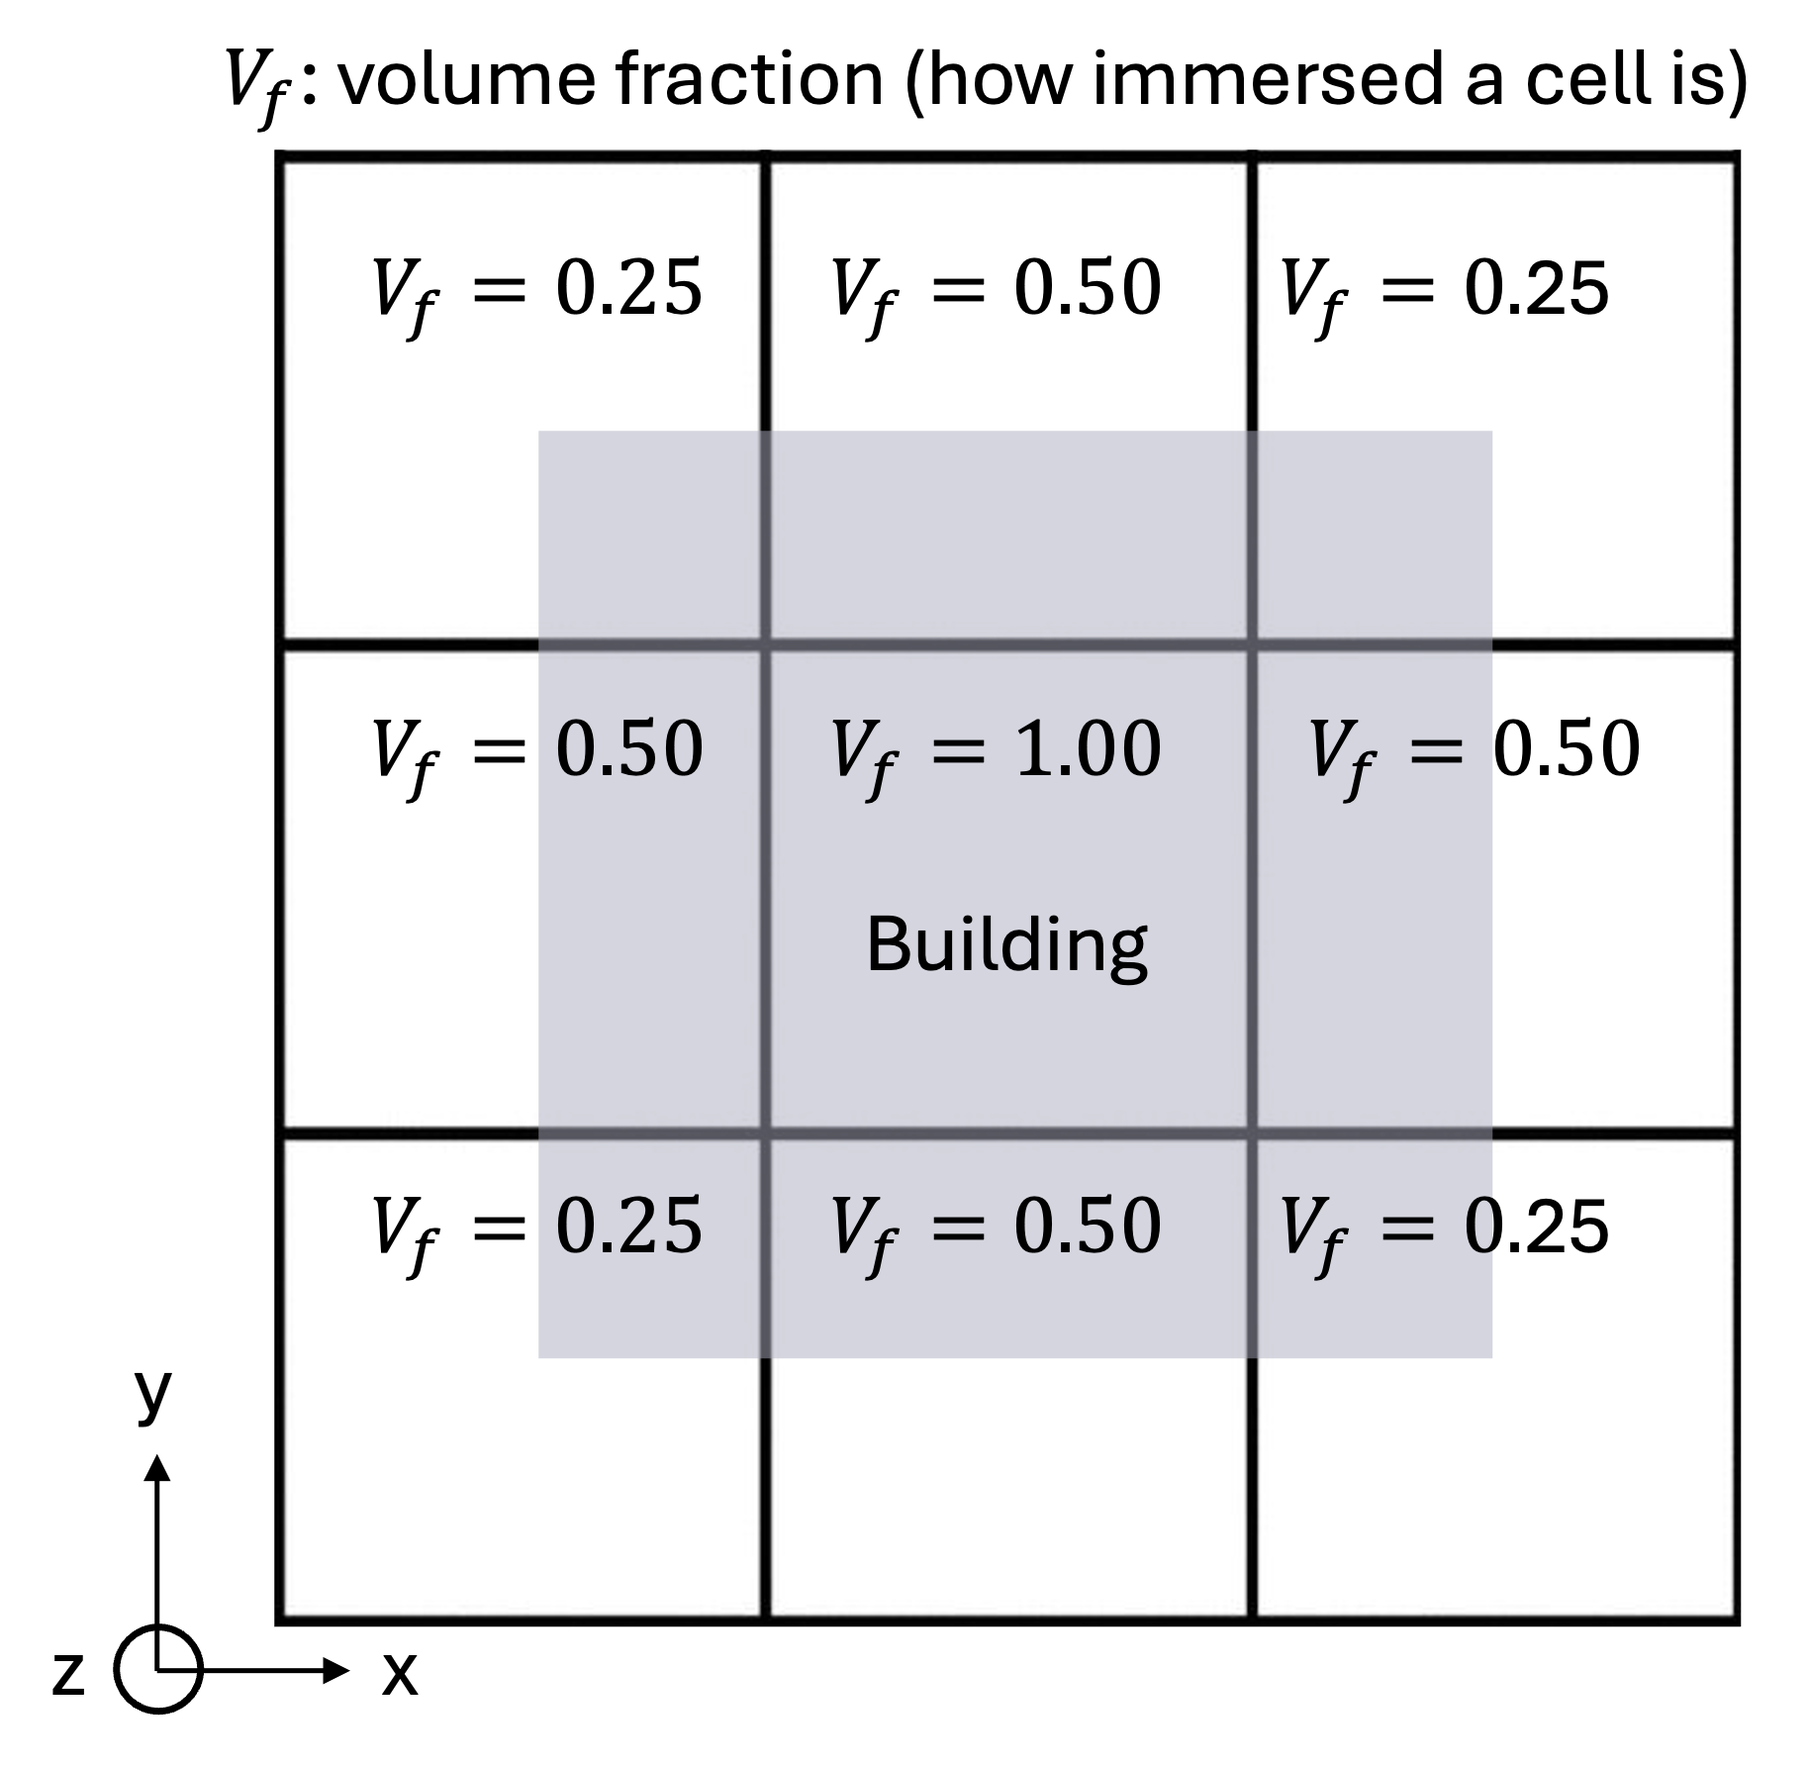
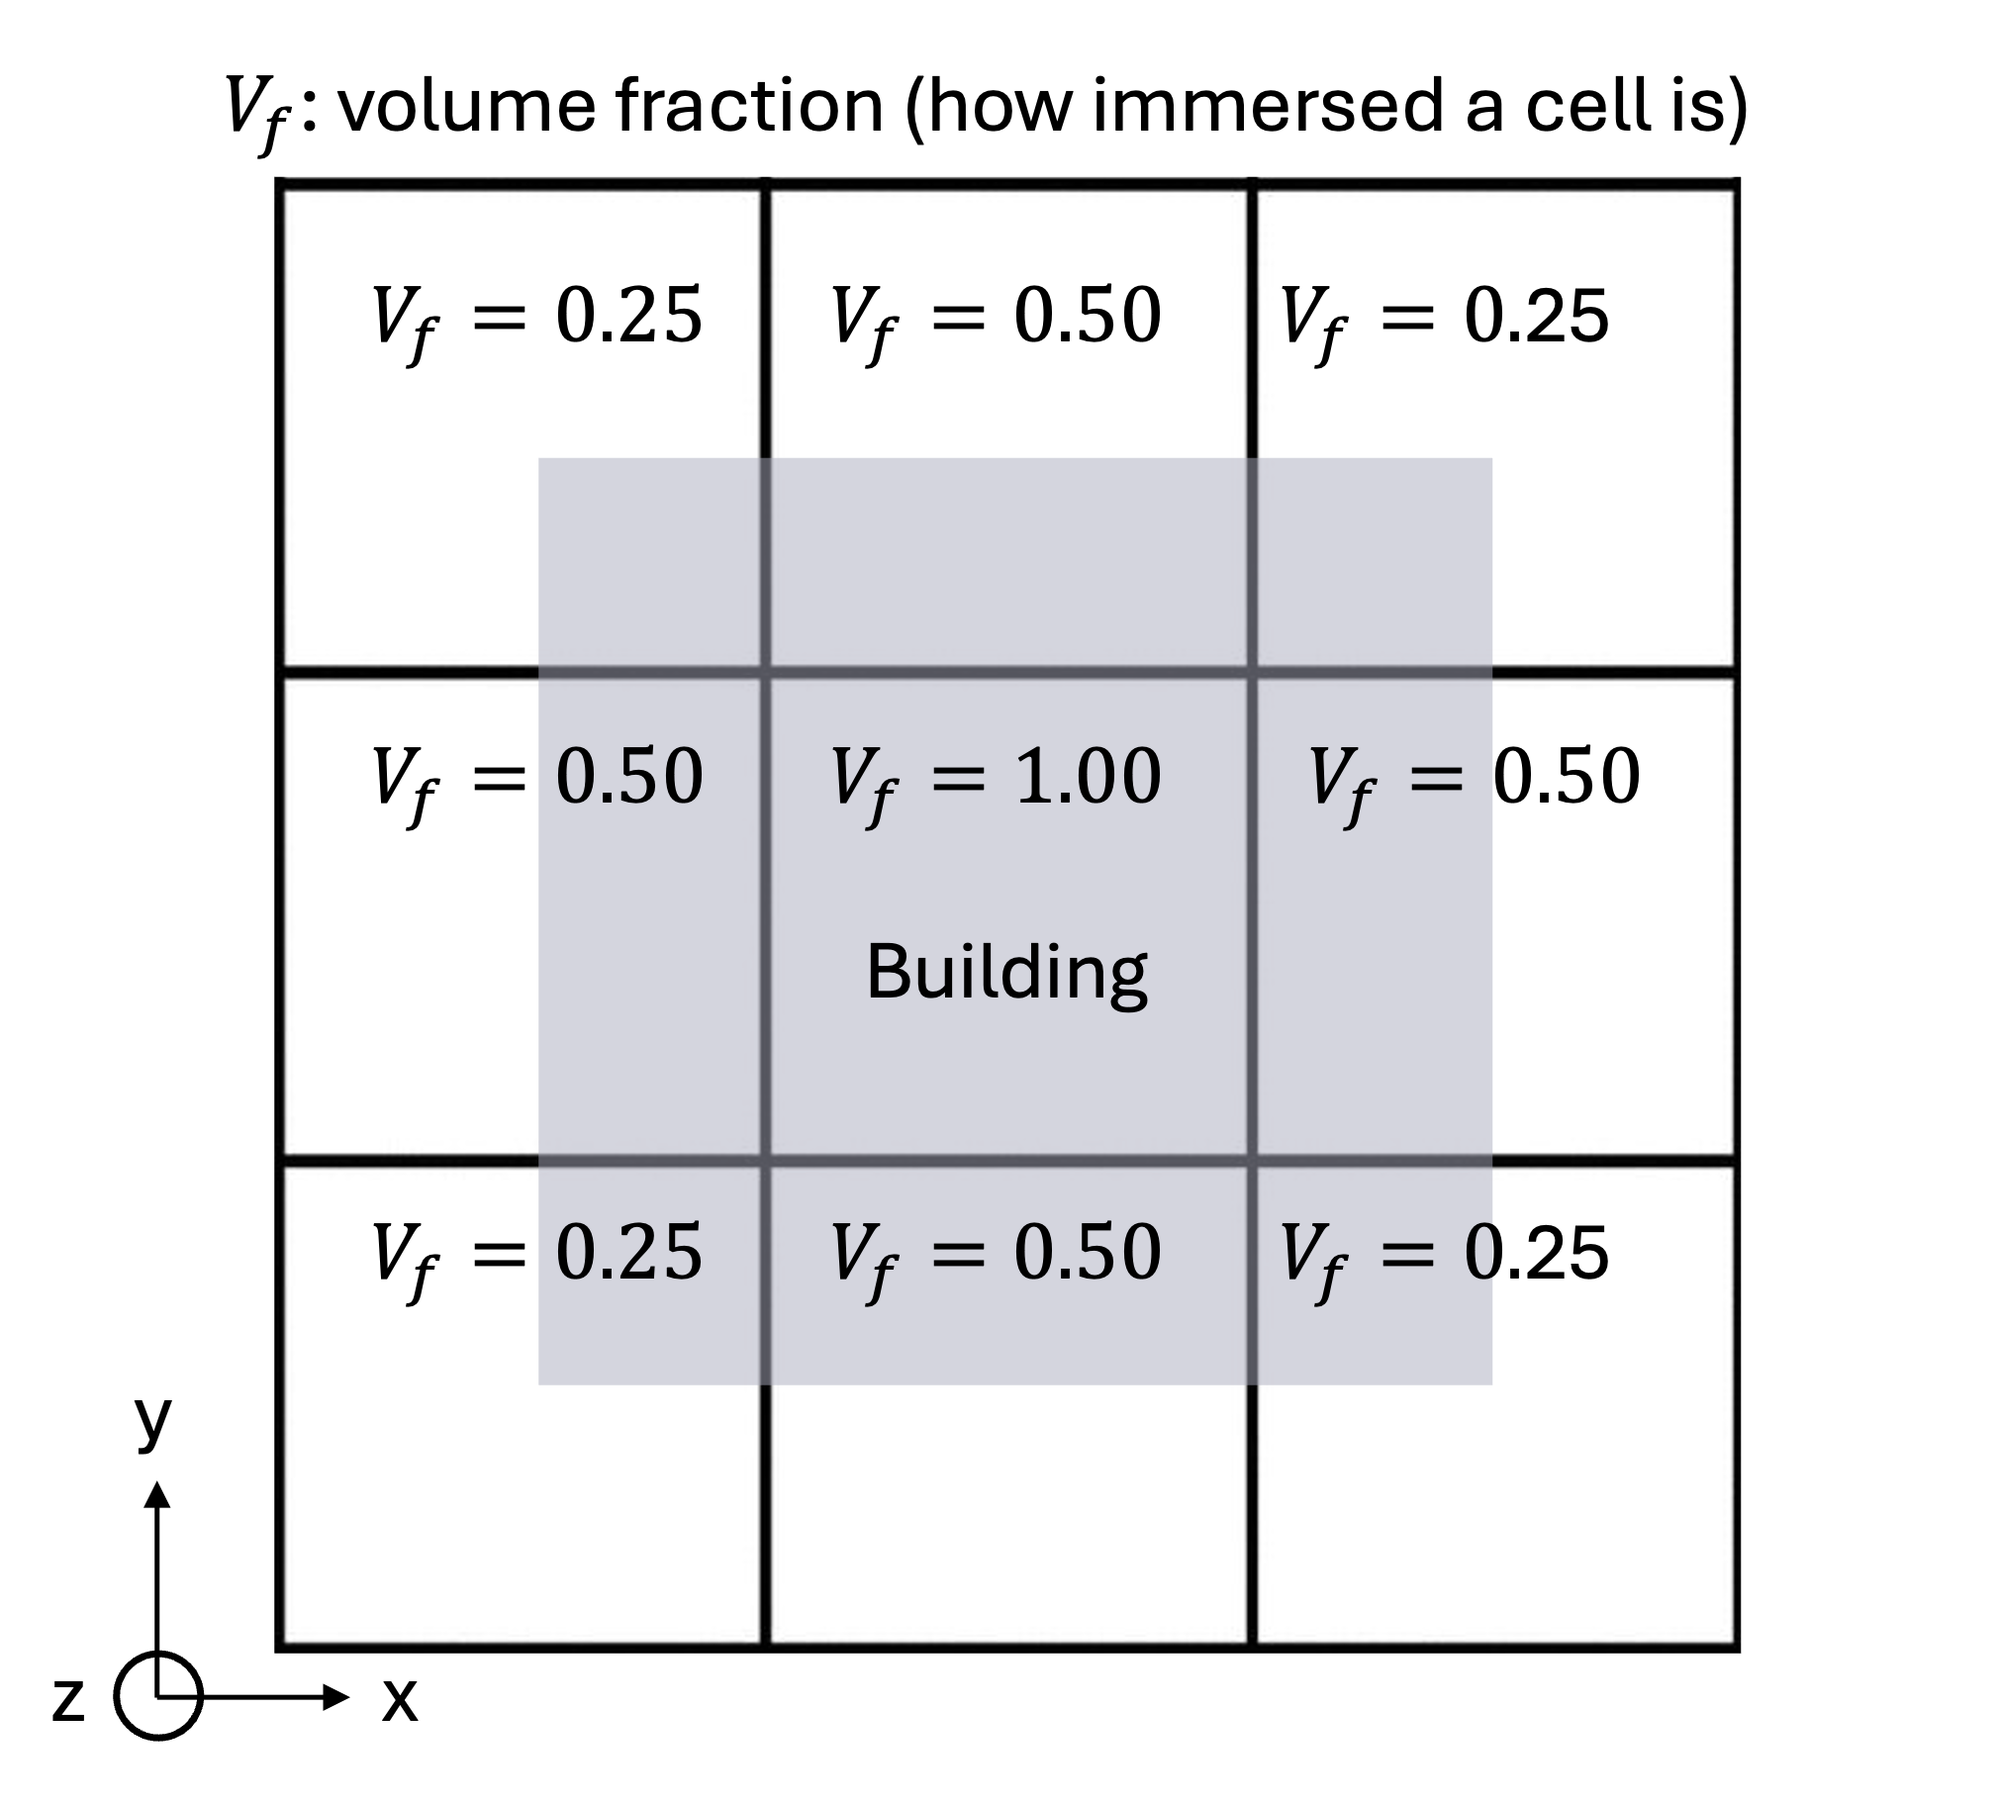
modifications to documentation

Changed region(s): [[0.0312, 0.0308, 0.9666, 0.9849]]

diff --git a/Docs/sphinx_doc/theory/Forcings.rst b/Docs/sphinx_doc/theory/Forcings.rst
@@ -317,6 +317,7 @@ with
 
 This formulation is used for all three direction and we assume walls are orthogonal to cell faces.
 If ``erf.if_stability_correction = false`` (which is the default), then MOST simply becomes the log law.
+The stability corrections are available for the similarity functions ``erf.if_stability_correction = true``; however, they should only be used with extreme caution as their validity for horizontal walls is questionable.
 For additional details on this formulation, please see see `Wise et al. (2025) <https://essopenarchive.org/doi/full/10.22541/essoar.176659709.97467775/v1>`_.
 
 Similar to the previous section, temperature forcing is also available for the building 'surface'.
@@ -345,7 +346,8 @@ This is because the timestep used for the anelastic solver is typically much coa
 A larger drag coefficient will more quickly force a cell to the desired value; however, there is a stability limit related to the timestep due to the explicit form of the drag term.
 The recommended values are ``erf.if_Cd_scalar = 50.0`` and ``erf.if_Cd_momentum = 500.0`` for the fully compresible solver and
 ``erf.if_Cd_scalar = 5.0`` and ``erf.if_Cd_momentum = 50.0`` (note that these are the default values).
-The immersed forcing formulation for buildings has been rigorously tested at grid spacings 5.0 m and less. Caution is needed when using immersed forcing at coarser grid spacings.
+The immersed forcing formulation for buildings has been rigorously tested at grid spacings of 5.0 m and less.
+Caution is needed when using immersed forcing at coarser grid spacings.
 If immersed forcing is causing your simulations to become unstable, the first recommendation is to reduce the drag coefficients.
 
 Immersed forcing for buildings can be used in conjunction with the ``StaticFittedMesh`` terrain option.
